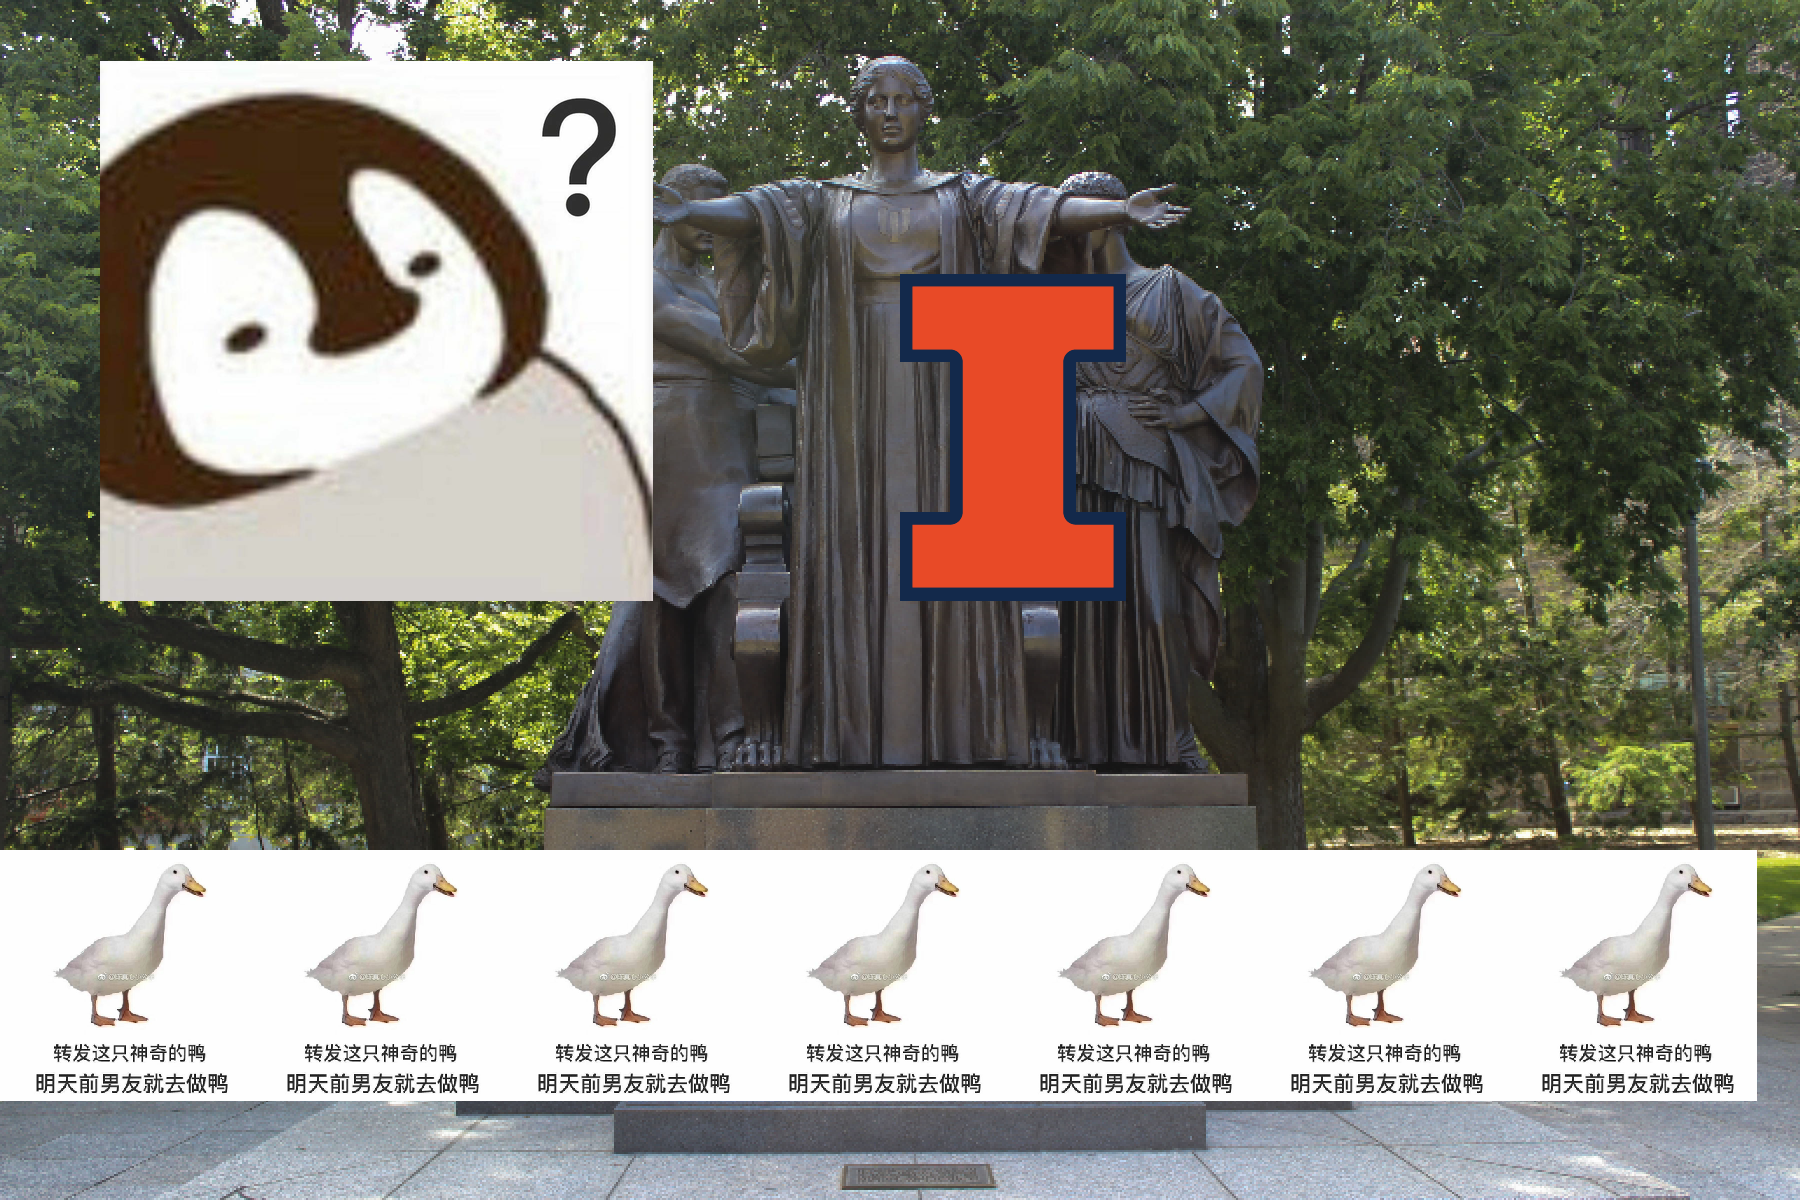
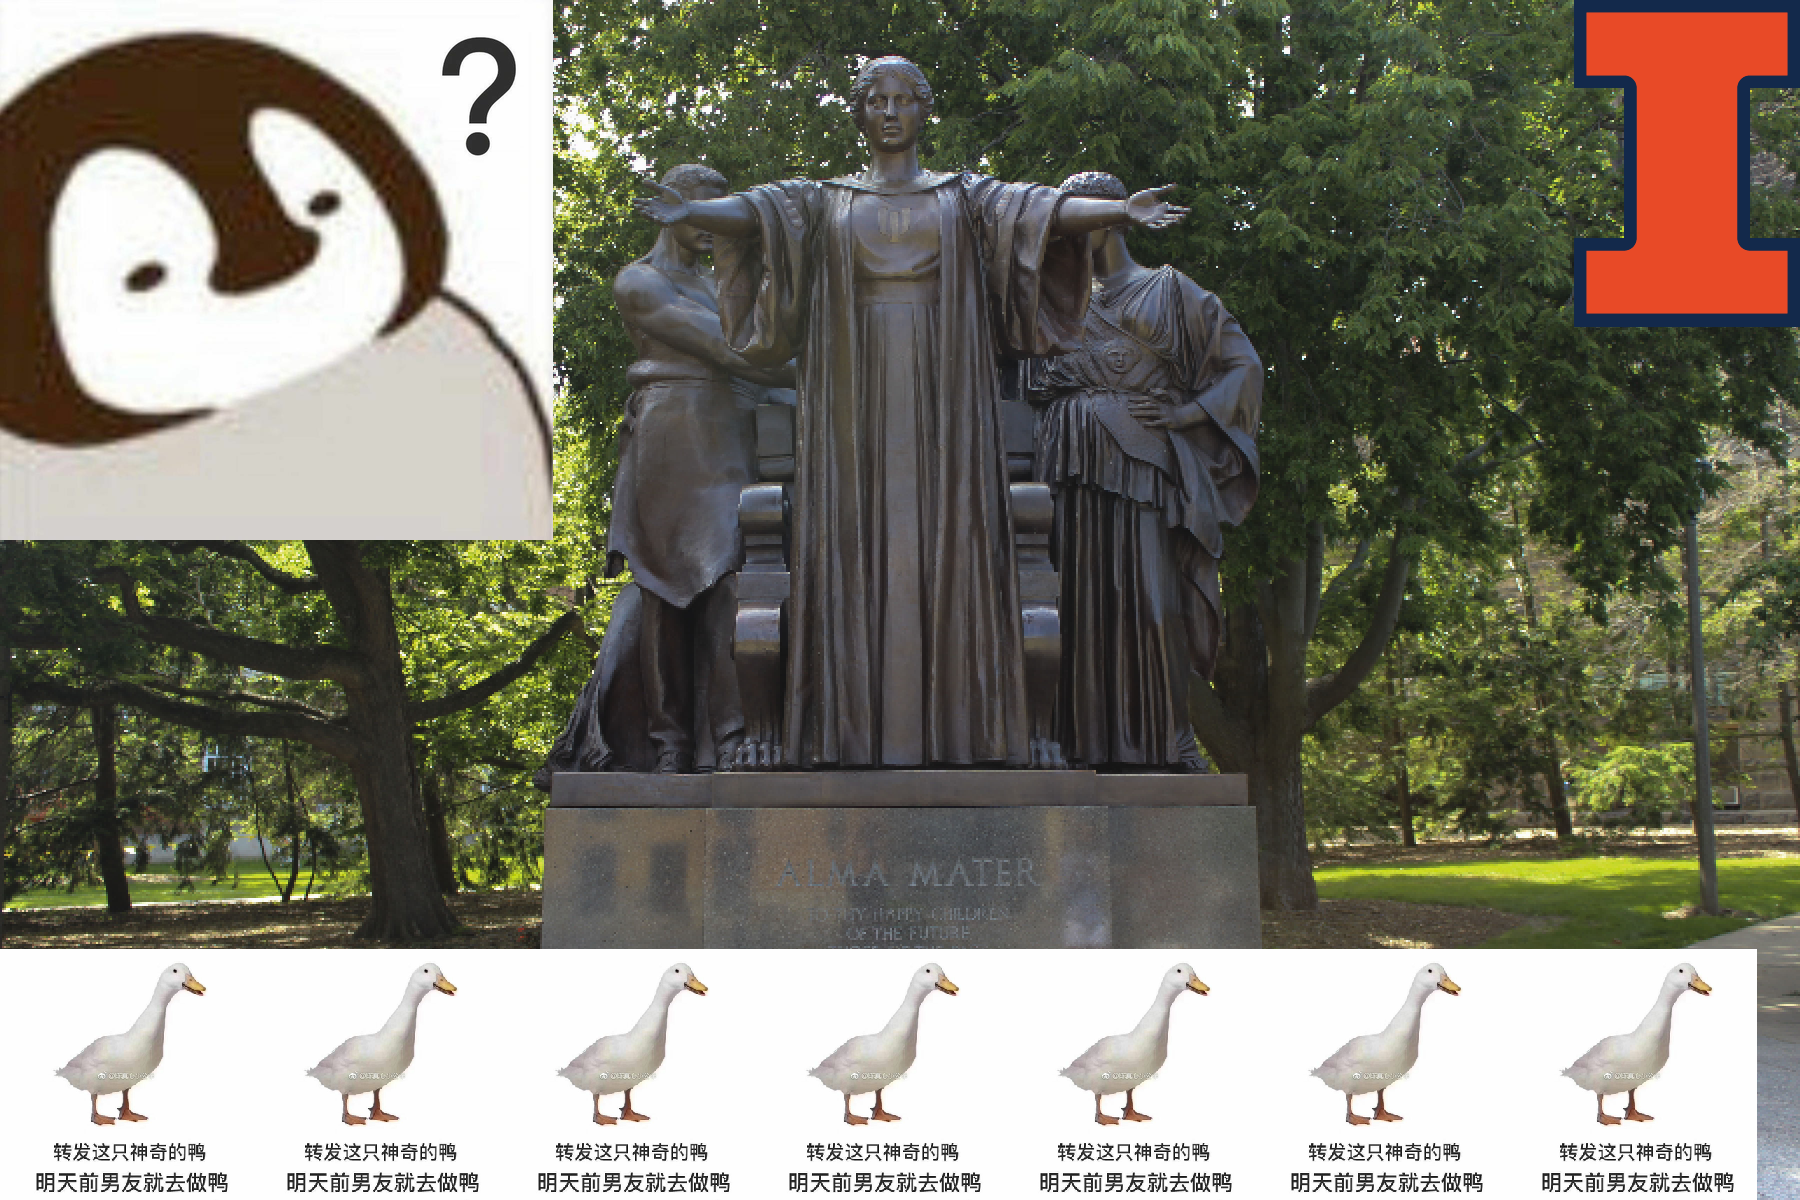
didnt pass all tests

diff --git a/mp_stickers/StickerSheet.cpp b/mp_stickers/StickerSheet.cpp
@@ -99,8 +99,9 @@ Image StickerSheet::render () const{
   for(int i=count-1; i>-1; i--){
     for(unsigned w=0; w<stickers_[i].width(); w++){
       for(unsigned h=0; h<stickers_[i].height(); h++){
-        HSLAPixel& stickerpixel=stickers_[i].getPixel(w,stickers_[i].height()-1-h);
-        HSLAPixel& pixel=output->getPixel(x_[i]+w,y_[i]-+h);
+    //    HSLAPixel& stickerpixel=stickers_[i].getPixel(w,stickers_[i].height()-1-h);
+        HSLAPixel& stickerpixel=stickers_[i].getPixel(w,h);
+        HSLAPixel& pixel=output->getPixel(x_[i]+w,y_[i]+h);
         if(stickerpixel.a !=0){
           pixel=stickerpixel;
         }

diff --git a/mp_stickers/main.cpp b/mp_stickers/main.cpp
@@ -18,11 +18,11 @@ int main() {
   sticker3.readFromFile("i.png");
   sticker2.scale(0.7);
   StickerSheet result(picture,10);
-  result.addSticker(sticker1,100,600);
+  result.addSticker(sticker1,0,0);
   //result.addSticker(sticker2,100,1200);
-  result.addSticker(sticker3,picture.width()/2,picture.height()/2);
+  result.addSticker(sticker3,picture.width()-sticker3.width(),0);
   for(int i=0; i<7; i++){
-    result.addSticker(sticker2,sticker2.width()*i,1100);
+    result.addSticker(sticker2,sticker2.width()*i,picture.height()-sticker2.height());
   }
 
   Image output=result.render();
